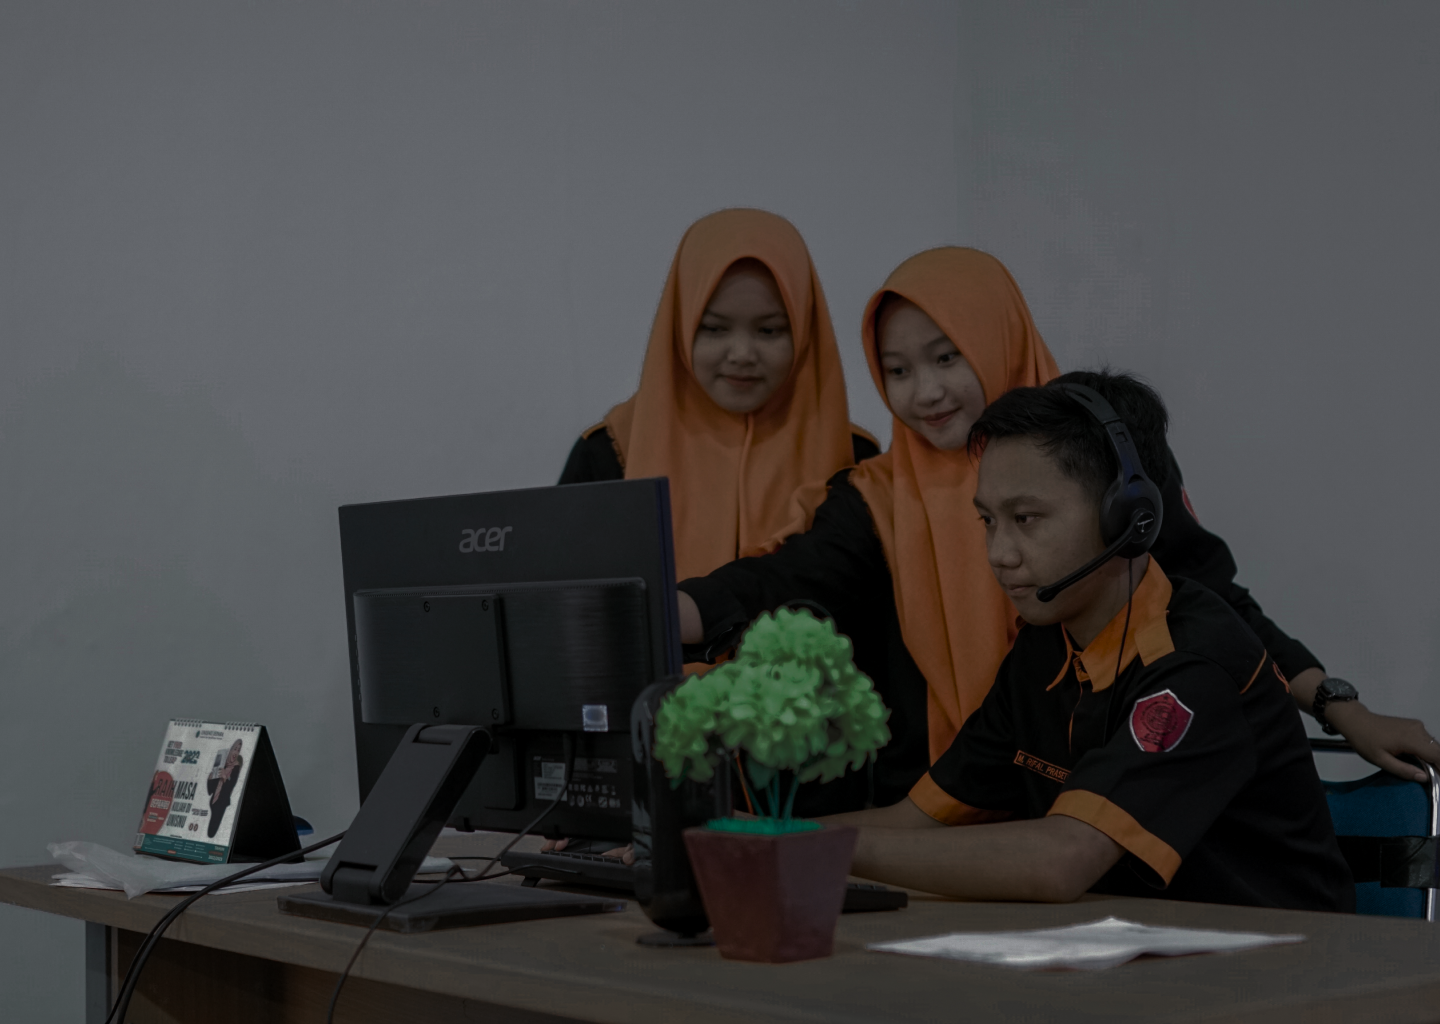
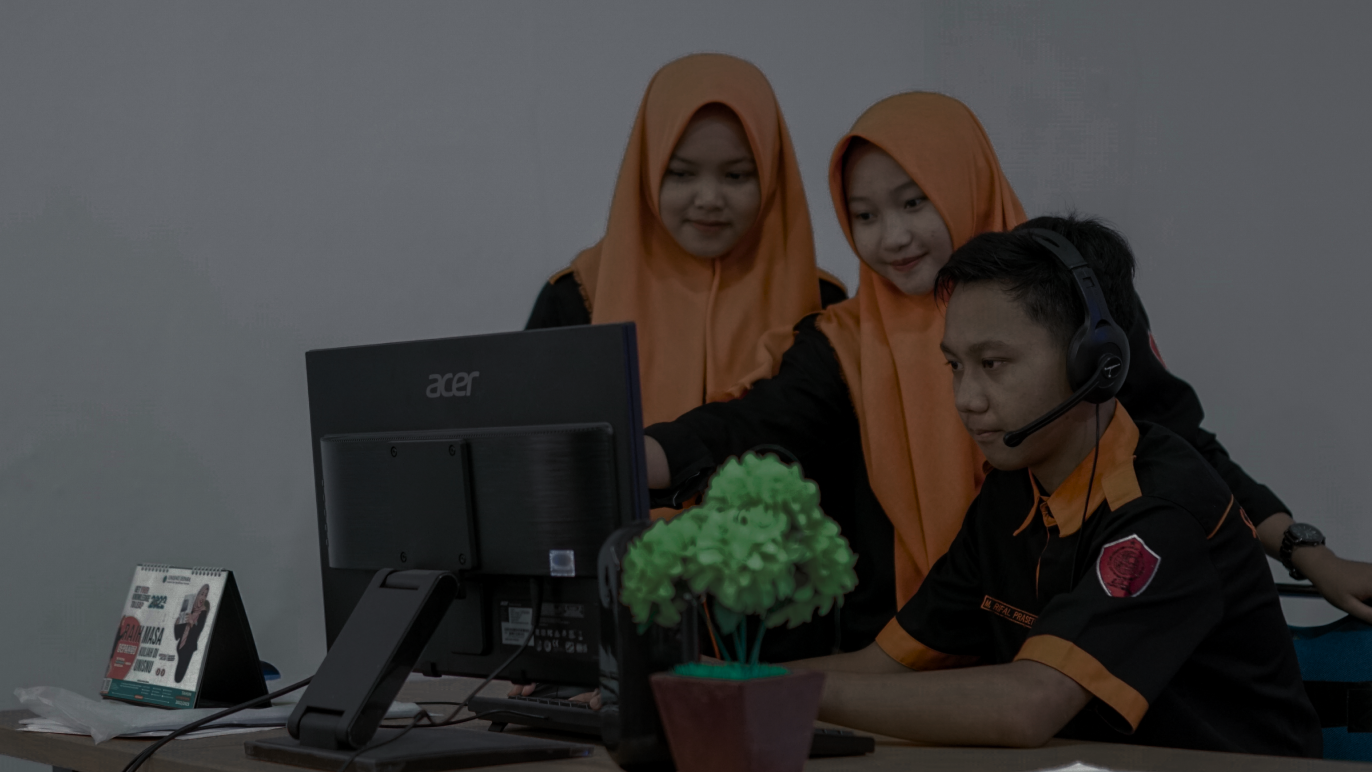
hero-com-2

Changed region(s): [[0.0, 0.0622, 1.0, 1.0]]

diff --git a/resources/views/components/hero.blade.php b/resources/views/components/hero.blade.php
@@ -1,10 +1,10 @@
-<section class="w-full h-screen flex flex-col py-20 items-center justify-center object-cover bg-[]" style="background-image: url({{Storage::url('assets/pplg/img/background.png')}})">
-    <div class="jumbotron w-auto items-center h-auto border-2 container">
-        <div class="w-[90%]">
-            <h1 class="text-2xl font-semibold text-[#f78704]">Lorem ipsum dolor sit amet consectetur adipisicing.</h1>
+<section class="w-full h-screen flex flex-col py-20 items-center justify-center object-cover bg-left-top" style="background-image: url({{Storage::url('assets/pplg/img/background.png')}})">
+    <div class="jumbotron w-full items-center h-auto container">
+        <div class="md:w-[27%] w-full h-auto">
+            <h1 class="text-2xl font-semibold text-[#f78704]">Lorem ipsum dolor sit amet, consectetur adipiscing</h1>
         </div>
-        <div class="w-[80%]">
-            <p class=" font-semibold text-lg text-white">Lorem ipsum dolor sit amet consectetur, adipisicing elit. Ea velit ducimus, delectus numquam aperiam reprehenderit. Dignissimos nesciunt ad quaerat quia maxime quisquam earum consequuntur veritatis.</p>
+        <div class="md:w-[43%] h-auto">
+            <p class=" font-semibold text-lg text-white">Lorem ipsum dolor sit amet, consectetur adipiscing elit, sed do eiusmod tempor incididunt ut labore et dolore magna aliqua. Ut enim ad minim veniam</p>
         </div>
         <a class="btn btn-primary btn-sm " href="#" role="button">Learn more</a>
     </div>

diff --git a/resources/views/components/visi.blade.php b/resources/views/components/visi.blade.php
@@ -1,0 +1,16 @@
+<section class="w-auto h-auto py-8">
+    <div class="container flex items-center flex-col">
+        <div class="w-full flex border-2">
+            <div class="border border-black flex text-center rounded-lg justify-center h-9 w-32">
+                <p class="font-semibold my-1">Visi dan Misi</p>
+            </div>
+            <div class="w-full h-auto flex justify-end">
+                <img src="{{Storage::url('assets/pplg/img/background.png')}}" class="object-cover h-full w-[15rem]" alt="">
+            </div>
+        </div>
+        <div class="w-full flex-col h-full items-center flex justify-end border-2 border-black">
+            <h1 class="capitalize font-bold">Visi</h1>
+            <p class="font-semibold">Lorem ipsum dolor sit amet, consectetur adipiscing elit, sed do eiusmod tempor incididunt ut labore et dolore magna aliqua. Ut enim ad minim veniam</p>
+        </div>
+    </div>
+</section>

diff --git a/resources/views/livewire/pplg/home.blade.php b/resources/views/livewire/pplg/home.blade.php
@@ -1,5 +1,6 @@
 <div>
     @include('components.navbar')
     @include('components.hero')
+    @include('components.visi')
     {{-- The Master doesn't talk, he acts. --}}
 </div>
